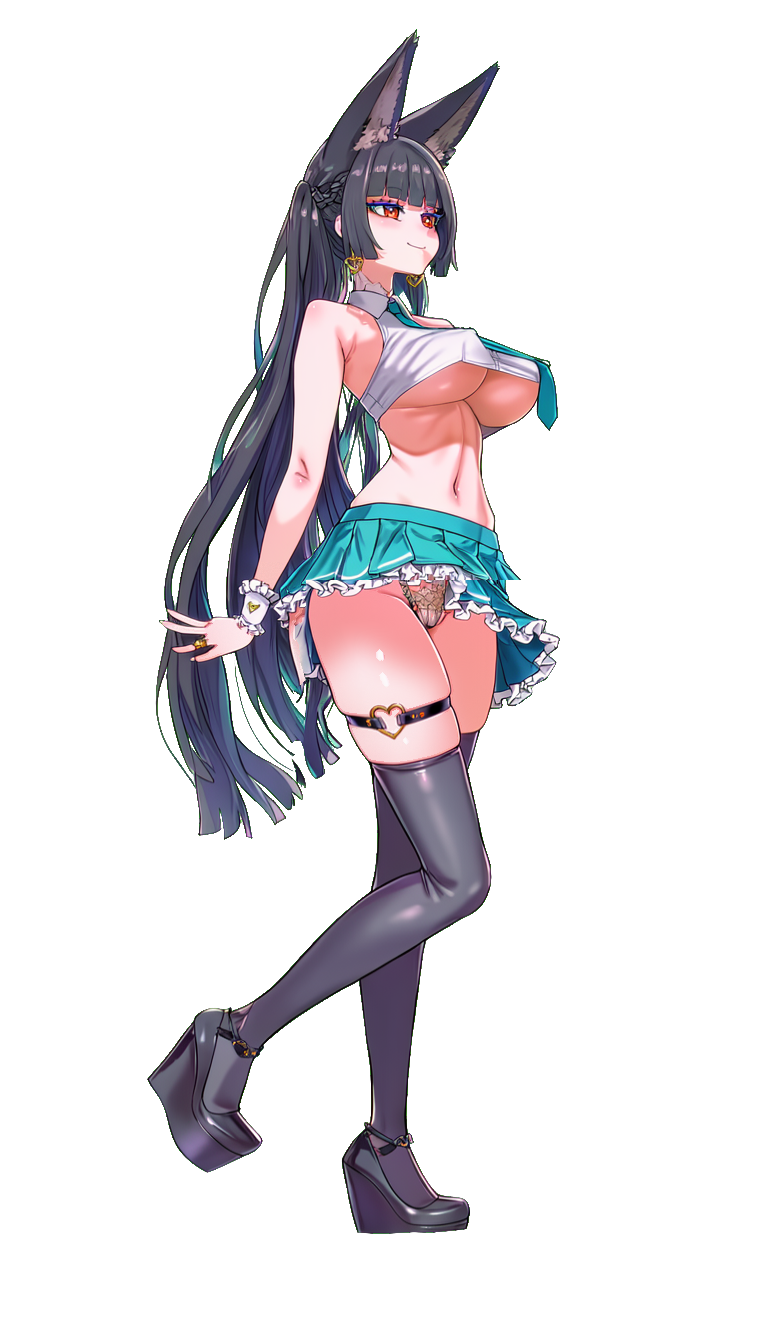
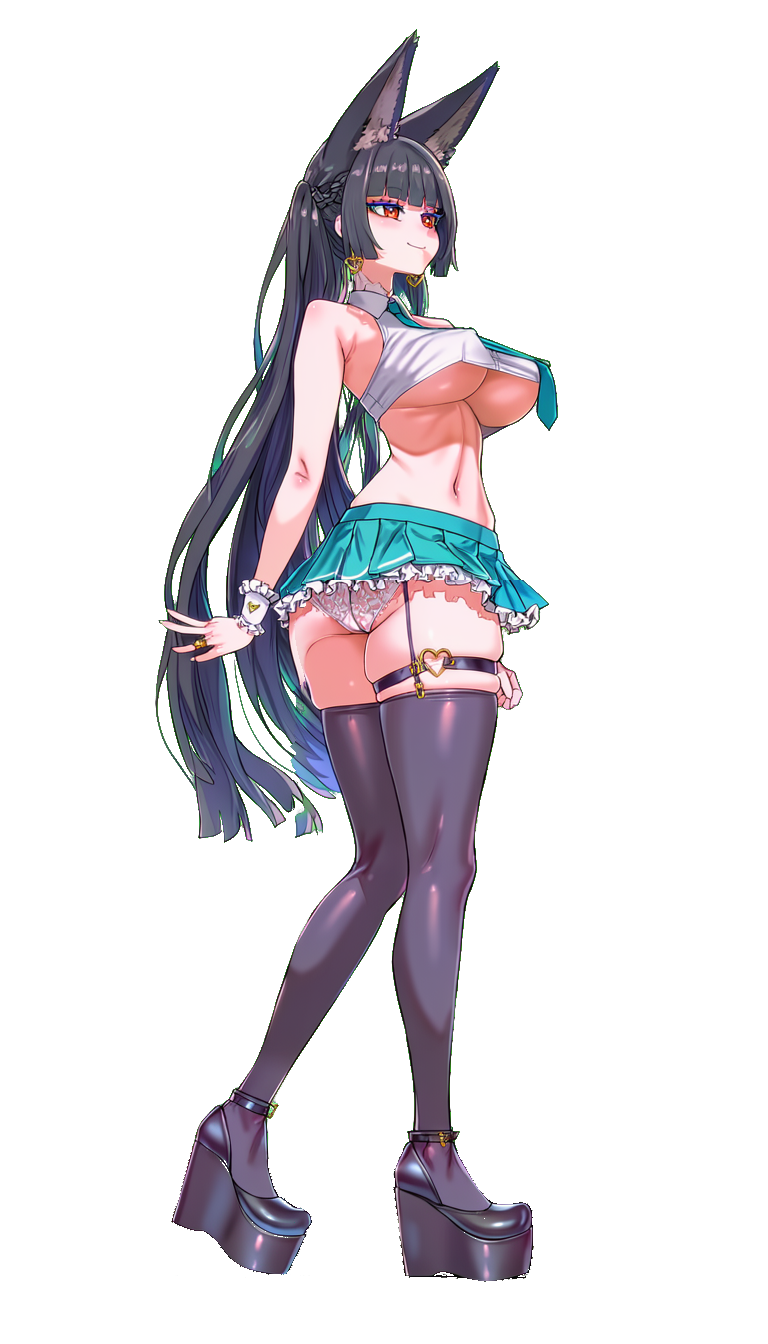
feat(stage): 6-frame catwalk for day Miyabi with hip sway
Heel-first steps on one line (picks 3104/3206/3303/3404/3506/3603),
8 fps, bob and hip roll per step, stride recalibrated to 143 px.

Changed region(s): [[0.1875, 0.4062, 0.7188, 0.9688], [0.4375, 0.3125, 0.4688, 0.3438]]

diff --git a/ClaudeCode/NAIPromptAgentV2/studio/src/components/mascot/RigCanvas.tsx b/ClaudeCode/NAIPromptAgentV2/studio/src/components/mascot/RigCanvas.tsx
@@ -1,7 +1,7 @@
 "use client";
 import { useEffect, useImperativeHandle, useRef, useState, type CSSProperties, type Ref } from "react";
 import type { Spring } from "@/lib/mascot/anim";
-import { cancelThink, cancelWave, hairMask, handMask, idleUniforms, newThink, newWave, spring, startThink, startWave, stopThink, thinkStep, queuedWave, waveReady, walkBob, walkSettle, WAVE_QUEUE_S, walkFrame, waveStep, type Quirks, type Rig } from "@/lib/mascot/rig";
+import { cancelThink, cancelWave, hairMask, handMask, idleUniforms, newThink, newWave, spring, startThink, startWave, stopThink, thinkStep, queuedWave, waveReady, walkBob, walkSettle, walkSway, WAVE_QUEUE_S, walkFrame, waveStep, type Quirks, type Rig } from "@/lib/mascot/rig";
 import type { SpriteHandle } from "./SpriteCanvas";
 
 export type RigHandle = SpriteHandle & { wave(hold?: boolean): void; walk(on: boolean): boolean; think(on: boolean): boolean };
@@ -201,7 +201,7 @@ export function RigCanvas({ rig, className = "", style, ref }: Props) {
 
     const wave = newWave(), think = newThink(), q: Quirks = { blink: -Infinity, ear: -Infinity, tilt: -Infinity, flick: -Infinity, sway: -Infinity };
     const bounce: Spring = { x: 0, v: 0 }, lag: Spring = { x: 0, v: 0 }, parts: Part[] = [];
-    let walkAt: number | null = null, waveUntil: number | null = null, settle = { at: 0, dip: 0 };
+    let walkAt: number | null = null, waveUntil: number | null = null, settle = { at: 0, dip: 0, sway: 0 };
     const now = () => performance.now() / 1000;
     const frame = (ms: number) => {
       const t = ms / 1000, dt = Math.min(Math.max(t - last, 0), 1 / 30);
@@ -221,11 +221,11 @@ export function RigCanvas({ rig, className = "", style, ref }: Props) {
       if (!walking && t > nextQuirk) { q[IDLE[(Math.random() * IDLE.length) | 0]] = t; nextQuirk = t + 4 + Math.random() * 6; }
       spring(bounce, 0, 3, 0.35, dt); spring(lag, 0, 2, 0.5, dt);
       const u = idleUniforms(t, q, w);
-      u.dip -= bounce.x * 5 - walkSettle(settle.dip, t - settle.at); u.hair += lag.x * 1.5;
+      u.dip -= bounce.x * 5 - walkSettle(settle.dip, t - settle.at); u.sway += walkSettle(settle.sway, t - settle.at); u.hair += lag.x * 1.5;
       if (walking) {
-        // the cycle carries the motion: each still is drawn as is, only the step bob moves it
+        // the cycle carries the motion: each still is drawn as is, only the step bob and hip roll move it
         for (const k of Object.keys(u) as (keyof typeof u)[]) u[k] = 0;
-        u.dip = walkBob(t - walkAt!);
+        u.dip = walkBob(t - walkAt!, walkTex.length); u.sway = walkSway(t - walkAt!, walkTex.length);
       } else if (thinking) {
         // the think still's head and hair don't sit where rest's do, so the rest-placed blink, ear and hair warps fade out with it
         const k = 1 - th.mixT;
@@ -234,7 +234,7 @@ export function RigCanvas({ rig, className = "", style, ref }: Props) {
       }
       for (const [k, v] of Object.entries(u)) x.uniform1f(uni[k], v);
       x.uniform1f(uni.mixT, walking ? 0 : thinking ? th.mixT : w.mixT); x.uniform1f(uni.hA, walking || thinking ? 0 : w.hA);
-      bind(0, walking ? walkTex[walkFrame(t - walkAt!)] : base[0]);
+      bind(0, walking ? walkTex[walkFrame(t - walkAt!, walkTex.length)] : base[0]);
       bind(1, thinking ? thinkTex : base[1]);
       bind(2, thinking ? noMask : handTex);
       x.viewport(0, 0, el.width, el.height);
@@ -272,7 +272,7 @@ export function RigCanvas({ rig, className = "", style, ref }: Props) {
       },
       walk: (on) => {
         if (!on) {
-          if (walkAt !== null) { const n = now(); settle = { at: n, dip: walkBob(n - walkAt) }; walkAt = null; bounce.v += 1; }
+          if (walkAt !== null) { const n = now(); settle = { at: n, dip: walkBob(n - walkAt, walkTex.length), sway: walkSway(n - walkAt, walkTex.length) }; walkAt = null; bounce.v += 1; }
           return true;
         }
         if (walkTex.some((t) => !t)) return false;

diff --git a/ClaudeCode/NAIPromptAgentV2/studio/src/lib/mascot/rig.test.ts b/ClaudeCode/NAIPromptAgentV2/studio/src/lib/mascot/rig.test.ts
@@ -1,6 +1,6 @@
 import { test } from "node:test";
 import assert from "node:assert/strict";
-import { cancelThink, cancelWave, END, waveReady, hairMask, handMask, idleUniforms, newThink, newWave, RIGS, startThink, startWave, stopThink, THINK_MIN, thinkStep, WALK_FPS, walkBob, walkFrame, walkSpeed, waveStep, queuedWave, walkSettle, WAVE_QUEUE_S, type Quirks } from "./rig";
+import { cancelThink, cancelWave, END, waveReady, hairMask, handMask, idleUniforms, newThink, newWave, RIGS, startThink, startWave, stopThink, THINK_MIN, thinkStep, WALK_FPS, walkBob, walkFrame, walkSpeed, walkSway, waveStep, queuedWave, walkSettle, WAVE_QUEUE_S, type Quirks } from "./rig";
 
 const rig = RIGS.day!;
 const run = (from: number, to: number, s = newWave(), dt = 1 / 60) => {
@@ -115,7 +115,7 @@ test("idle breath leaves the knee dip to its own channel", () => {
 
 test("shipped walk and think stills are keyed like rest", async () => {
   const sharp = (await import("sharp")).default;
-  for (const f of ["walk1", "walk2", "walk3", "walk4", "think"]) {
+  for (const f of ["walk1", "walk2", "walk3", "walk4", "walk5", "walk6", "think"]) {
     const { data, info } = await sharp(`public/rig/day/${f}.png`).ensureAlpha().raw().toBuffer({ resolveWithObject: true });
     assert.equal(info.width, 768, f);
     assert.equal(info.height, 1344, f);
@@ -128,23 +128,35 @@ test("shipped walk and think stills are keyed like rest", async () => {
   }
 });
 
-test("walkFrame cycles at WALK_FPS", () => {
-  assert.equal(walkFrame(0), 0);
-  assert.equal(walkFrame(1.01 / WALK_FPS), 1);
-  assert.equal(walkFrame(3.5 / WALK_FPS), 3);
-  assert.equal(walkFrame(4.2 / WALK_FPS), 0);
-  assert.equal(walkFrame(-1), 0);
+test("walkFrame cycles through every still at WALK_FPS", () => {
+  assert.equal(walkFrame(0, 6), 0);
+  assert.equal(walkFrame(1.01 / WALK_FPS, 6), 1);
+  assert.equal(walkFrame(5.5 / WALK_FPS, 6), 5);
+  assert.equal(walkFrame(6.2 / WALK_FPS, 6), 0);
+  assert.equal(walkFrame(3.5 / WALK_FPS, 4), 3);
+  assert.equal(walkFrame(-1, 6), 0);
+  assert.ok(WALK_FPS >= 7 && WALK_FPS <= 9);
 });
 
-test("walkBob peaks on passing frames", () => {
-  assert.ok(Math.abs(walkBob(1.5 / WALK_FPS) - 0.35) < 1e-9);
-  assert.ok(Math.abs(walkBob(3.5 / WALK_FPS) - 0.35) < 1e-9);
-  assert.ok(Math.abs(walkBob(0.5 / WALK_FPS) + 0.35) < 1e-9);
-  for (let t = 0; t <= 3; t += 0.01) assert.ok(Math.abs(walkBob(t)) <= 0.35 + 1e-9);
+test("walkBob sinks on each contact and rises mid-step", () => {
+  const at = (f: number) => walkBob(f / WALK_FPS, 6);
+  assert.ok(Math.abs(at(0.5) + 0.35) < 1e-9); // contact A
+  assert.ok(Math.abs(at(3.5) + 0.35) < 1e-9); // contact B
+  assert.ok(Math.abs(at(2) - 0.35) < 1e-9);
+  assert.ok(Math.abs(at(5) - 0.35) < 1e-9);
+  for (let t = 0; t <= 3; t += 0.01) assert.ok(Math.abs(walkBob(t, 6)) <= 0.35 + 1e-9);
+});
+
+test("walkSway rolls with every step, a quarter step off the bob", () => {
+  const at = (f: number) => walkSway(f / WALK_FPS, 6);
+  assert.ok(Math.abs(at(0.5)) < 1e-9 && Math.abs(at(3.5)) < 1e-9); // level on contact
+  assert.ok(Math.abs(at(1.25) - 1) < 1e-9 && Math.abs(at(2.75) + 1) < 1e-9);
+  assert.ok(Math.abs(at(4.25) - at(1.25)) < 1e-9); // same roll on both steps: she's side-on
+  for (let t = 0; t <= 3; t += 0.01) assert.ok(Math.abs(walkSway(t, 6)) <= 1 + 1e-9); // ~±0.7° on the shader's sway
 });
 
 test("walkSpeed keeps feet planted", () => {
-  assert.equal(walkSpeed(rig, 336), (130 * 7 * 336) / 1344);
+  assert.equal(walkSpeed(rig, 336), (rig.stride * WALK_FPS * 336) / 1344);
 });
 
 const FADE = 0.14, IN = 0.12;

diff --git a/ClaudeCode/NAIPromptAgentV2/studio/src/lib/mascot/rig.ts b/ClaudeCode/NAIPromptAgentV2/studio/src/lib/mascot/rig.ts
@@ -6,14 +6,14 @@ export type Rig = {
   w: number; h: number; rest: string; wave: string;
   P: [number, number]; D: [number, number]; tip: [number, number]; seed: [number, number];
   amp: number; hz: number;
-  /** Walk cycle stills (contact, passing, contact, passing) and the think still; stride = still px the feet travel per frame. */
+  /** Catwalk cycle stills (contact, passing, swing per leg: 6 frames) and the think still; stride = still px the feet travel per frame. */
   walk: string[]; think: string; stride: number;
 };
 
 /** Only the day standing still (Sprites base 114) is rigged; other outfits keep SpriteCanvas. */
 export const RIGS: Partial<Record<Outfit, Rig>> = {
   day: { w: 768, h: 1344, rest: "/rig/day/rest.png", wave: "/rig/day/wave.png", P: [268, 342], D: [-0.35, -0.94], tip: [238, 252], seed: [248, 300], amp: 0.22, hz: 2.1,
-    walk: ["/rig/day/walk1.png", "/rig/day/walk2.png", "/rig/day/walk3.png", "/rig/day/walk4.png"], think: "/rig/day/think.png", stride: 130 },
+    walk: ["/rig/day/walk1.png", "/rig/day/walk2.png", "/rig/day/walk3.png", "/rig/day/walk4.png", "/rig/day/walk5.png", "/rig/day/walk6.png"], think: "/rig/day/think.png", stride: 143 },
 };
 
 const HOLD = 2.6, FADE = 0.14, IN = 0.12;
@@ -145,10 +145,14 @@ export function hairMask(px: Uint8ClampedArray, rig: Rig): Uint8Array {
   return m;
 }
 
-export const WALK_FPS = 7;
-export const walkFrame = (t: number) => (Math.floor(Math.max(t, 0) * WALK_FPS) % 4) as 0 | 1 | 2 | 3;
-/** Up on the passing frames (1, 3), down on contact; fed through dip only. */
-export const walkBob = (t: number) => 0.35 * Math.cos(Math.PI * WALK_FPS * (t - 1.5 / WALK_FPS));
+export const WALK_FPS = 8;
+export const walkFrame = (t: number, n: number) => Math.floor(Math.max(t, 0) * WALK_FPS) % n;
+// n stills = two steps; each step's contact frame (0, n/2) sits down, mid-step rises. Phase is in frames from the first contact's centre.
+const stepPhase = (t: number, n: number) => (2 * Math.PI * (t * WALK_FPS - 0.5)) / (n / 2);
+/** Down on contact, up mid-step; fed through dip only. */
+export const walkBob = (t: number, n: number) => -0.35 * Math.cos(stepPhase(t, n));
+/** Hip roll: every step rolls the same way (she is side-on), a quarter step after the bob, level on contact; fed through sway. */
+export const walkSway = (t: number, n: number) => Math.sin(stepPhase(t, n));
 /** Screen px/s that keeps the planted foot still: one stride per frame, scaled to the displayed height. */
 export const walkSpeed = (rig: Rig, displayH: number) => (rig.stride * WALK_FPS * displayH) / rig.h;
 
